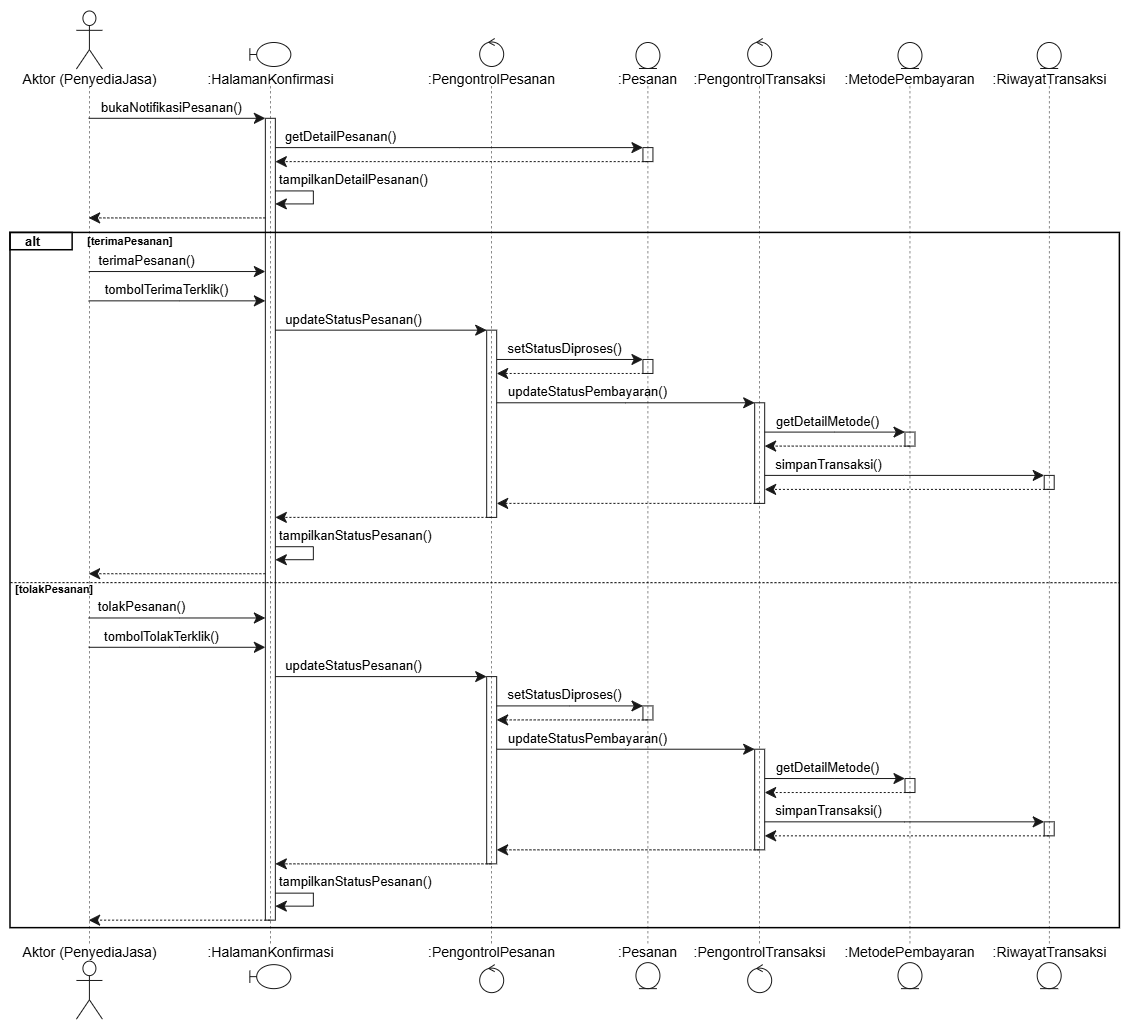
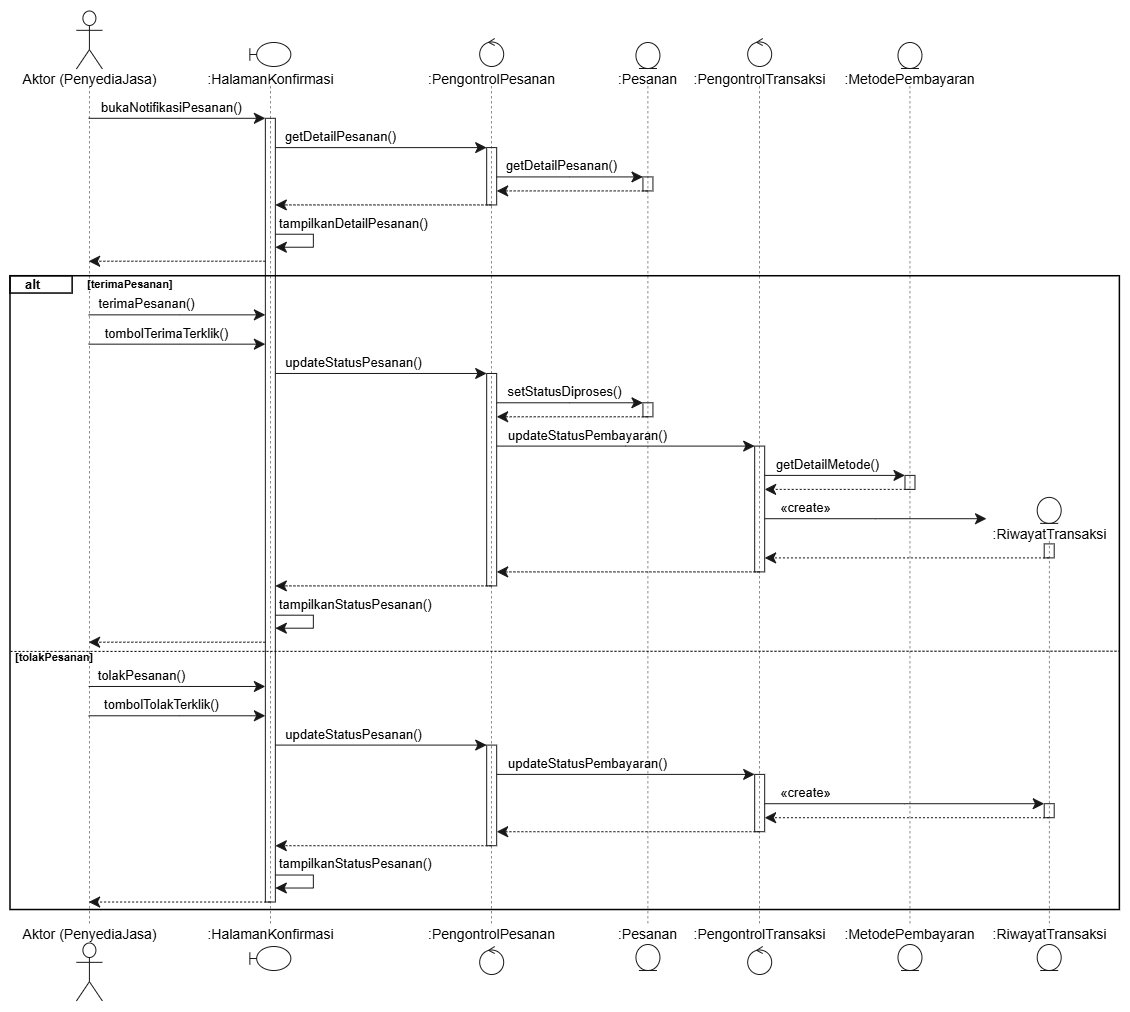
docs: fix sequence diagram uc08, uc09, uc10

diff --git a/docs/M7/K01_G03_DPPL.md b/docs/M7/K01_G03_DPPL.md
@@ -518,7 +518,7 @@ Tabel 3.8. Identifikasi Kelas Use Case [UC08]
 - **Skenario Normal**
 
 <p align="center">
-<img alt="Sequence Diagram UC08" src="./assets/diagram/SequenceDiagramUC08.png" width="50%">
+<img alt="Sequence Diagram UC08" src="./assets/diagram/SequenceDiagramUC08.png" width="70%">
 </p>
 <p align="center">
 <i>Gambar 3.8.2 Sequence Diagram [UC08]</i>
@@ -528,7 +528,7 @@ Tabel 3.8. Identifikasi Kelas Use Case [UC08]
 ### 3.8.3 Diagram Kelas
 
 <p align="center">
-<img alt="Diagram Kelas UC08" src="./assets/diagram/ClassDiagramUC08.png" width="35%">
+<img alt="Diagram Kelas UC08" src="./assets/diagram/ClassDiagramUC08.png" width="50%">
 </p>
 <p align="center">
 <i>Gambar 3.8.3 Diagram Kelas Melakukan Komunikasi</i>
@@ -560,7 +560,7 @@ Tabel 3.9. Identifikasi Kelas Use Case [UC09]
 - **Skenario Normal**
 
 <p align="center">
-<img alt="Sequence Diagram UC09" src="./assets/diagram/SequenceDiagramUC09.png" width="50%">
+<img alt="Sequence Diagram UC09" src="./assets/diagram/SequenceDiagramUC09.png" width="70%">
 </p>
 <p align="center">
 <i>Gambar 3.9.2 Sequence Diagram [UC09]</i>
@@ -569,7 +569,7 @@ Tabel 3.9. Identifikasi Kelas Use Case [UC09]
 ### 3.9.3 Diagram Kelas
 
 <p align="center">
-<img alt="Diagram Kelas UC09" src="./assets/diagram/ClassDiagramUC09.png" width="35%">
+<img alt="Diagram Kelas UC09" src="./assets/diagram/ClassDiagramUC09.png" width="50%">
 </p>
 <p align="center">
 <i>Gambar 3.9.3 Diagram Kelas Melakukan Pemesanan Jasa</i>
@@ -598,7 +598,7 @@ Tabel 3.10. Identifikasi Kelas Use Case [UC10]
 - **Skenario Normal**
 
 <p align="center">
-<img alt="Sequence Diagram UC10" src="./assets/diagram/SequenceDiagramUC10.png" width="50%">
+<img alt="Sequence Diagram UC10" src="./assets/diagram/SequenceDiagramUC10.png" width="70%">
 </p>
 <p align="center">
 <i>Gambar 3.10.2 Sequence Diagram [UC10]</i>
@@ -608,7 +608,7 @@ Tabel 3.10. Identifikasi Kelas Use Case [UC10]
 ### 3.10.3 Diagram Kelas
 
 <p align="center">
-<img alt="Diagram Kelas UC10" src="./assets/diagram/ClassDiagramUC10.png" width="35%">
+<img alt="Diagram Kelas UC10" src="./assets/diagram/ClassDiagramUC10.png" width="50%">
 </p>
 <p align="center">
 <i>Gambar 3.10.3 Diagram Kelas Melakukan Konfirmasi Pesanan</i>
